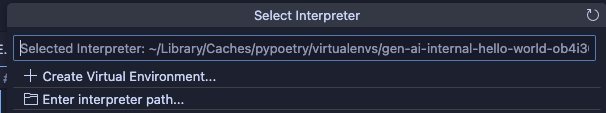
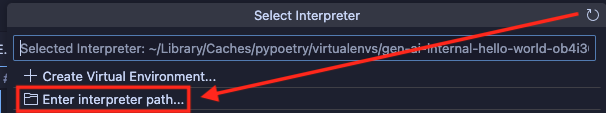
Add more screenshots - Adjust wordings

Changed region(s): [[0.0, 0.1062, 0.9802, 1.0]]

diff --git a/examples/gen-ai-internal-hello-world/README.md b/examples/gen-ai-internal-hello-world/README.md
@@ -1,6 +1,6 @@
 # GenAI RAGO Example using gen-ai-internal
 
-This is an example of how to use the gllm-pipeline library to build a simple RAG pipeline using [GDP-ADMIN/gen-ai-internal](https://github.com/GDP-ADMIN/gen-ai-internal) source code.
+This is an example of how to use the gllm-pipeline library to build a simple RAG pipeline using source code version of SDK.
 
 See other examples in [gen-ai-hello-world](../gen-ai-hello-world).
 
@@ -32,6 +32,8 @@ See other examples in [gen-ai-hello-world](../gen-ai-hello-world).
 
    - Go to [VSCode](https://code.visualstudio.com/download) to download VSCode IDE.
    - Go to [Cursor](https://www.cursor.com/) to download Cursor IDE.
+
+   Note: the IDE pre-requisite is not checked automatically.
 
 ## Running the code
 
@@ -88,22 +90,33 @@ See other examples in [gen-ai-hello-world](../gen-ai-hello-world).
 
 3. Setup VSCode or Cursor IDE python interpreter path
 
-   If you have successfully gotten the response above, you need to set the python interpreter path for the IDE. Phython interpreter path is required so the IDE can recognize the import statement.
+   If you have successfully gotten the response above, you need to set the Python interpreter path for the IDE. If you haven't set the Python interpreter path, you will get error about import like below.
 
-   In the console, below the response, there will be this log: `Getting python executable path for use in IDE...` copy paste the next line, it's usually something like:
+   ![alt text](img/image-import-error.png)
 
-   ```
+   Phython interpreter path is required so the IDE can recognize the import statement. In the console, below the response, there will be this log: `Getting python interpreter path for use in IDE...` copy paste the next line, it's usually something like:
+
+   ```bash
    /home/<username>/.cache/pypoetry/virtualenvs/gen-ai-internal-hello-world-ob4i36ef-py3.12/bin/python
    ```
 
-   Copy paste the above line to your IDE python interpreter path:
+   Copy paste the line shown in your console to your IDE python interpreter path:
 
-   1. Open command palette (⌘⇧P for Mac or Ctrl+Shift+P for Linux/Windows) and type `>Python: Select Interpreter` and press enter.
+   1. Open command palette (`⌘⇧P` for Mac or `Ctrl+Shift+P` for Linux/Windows) and type `> Python: Select Interpreter` and press enter.
+
       ![alt text](img/image-select-interpreter.png)
+
    2. Select `Enter interpreter path...`
+
       ![alt text](img/image-enter-interpreter.png)
+
    3. Copy-paste the path shown in your console and press enter.
+
       ![alt text](img/image-enter-path.png)
+
+   Your IDE will then recognize the path and will no longer show error about the import statement like below.
+
+   ![alt text](img/image-import-success.png)
 
 ## FAQs
 
@@ -152,10 +165,4 @@ brew install libmagic
 
 ### 4. I got `Unable to import 'gllm_generation.response_synthesizer'` error in VSCode/Cursor. How do I fix it?
 
-You need to change the Python interpreter path:
-
-1.  Open command palette (⇧⌘P for Mac or Ctrl+Shift+P for Linux/Windows)
-2.  Type `Python: Select Interpreter` and enter.
-3.  Select `Enter interpreter path...`
-4.  Copy-paste the path shown in your console after it's done responding to your questions
-    1. It's something along `.../pypoetry/virtualenvs/gen-ai-internal-hello-world-ob4i36ef-py3.12/bin/python`
+You need to change the Python interpreter path in your IDE. The step-by-step detail to do this is available in section [Running the code](#running-the-code) above.

diff --git a/README.md b/README.md
@@ -14,9 +14,6 @@ This repository contains a collection of examples demonstrating the usage of the
 2. **Setting up**:  
    To set up the project, please refer to the respective README files in the [gen-ai-hello-world](./examples/gen-ai-hello-world) directory.
 
-3. **Explore and modify**:  
-   Examine the code, try different queries, and modify the examples as needed.
-
 ## Getting Started Using Source Code Version
 
 1. **Clone the repository and navigate to `gen-ai-internal-hello-world` folder**:
@@ -28,6 +25,3 @@ This repository contains a collection of examples demonstrating the usage of the
 
 2. **Setting up**:  
    To set up the project, please refer to the respective README files in the [gen-ai-internal-hello-world](./examples/gen-ai-internal-hello-world) directory.
-
-3. **Explore and modify**:  
-   Examine the code, try different queries, and modify the examples as needed.

diff --git a/examples/gen-ai-hello-world/README.md b/examples/gen-ai-hello-world/README.md
@@ -1,11 +1,11 @@
 # GenAI RAGO Example
 
-This is an example of how to use the gllm-pipeline library to build a simple RAG pipeline.
+This is an example of how to use the gllm-pipeline library to build a simple RAG pipeline using binary version of SDK.
 
 See other examples in [gen-ai-hello-world](../gen-ai-hello-world).
 
 > [!WARNING]
-> The GenAI SDK is in binary version and is currently only available for Linux, macOS, and Windows.
+> The GenAI SDK binary version is currently only available for Linux, macOS, and Windows.
 
 ## Prerequisites
 
